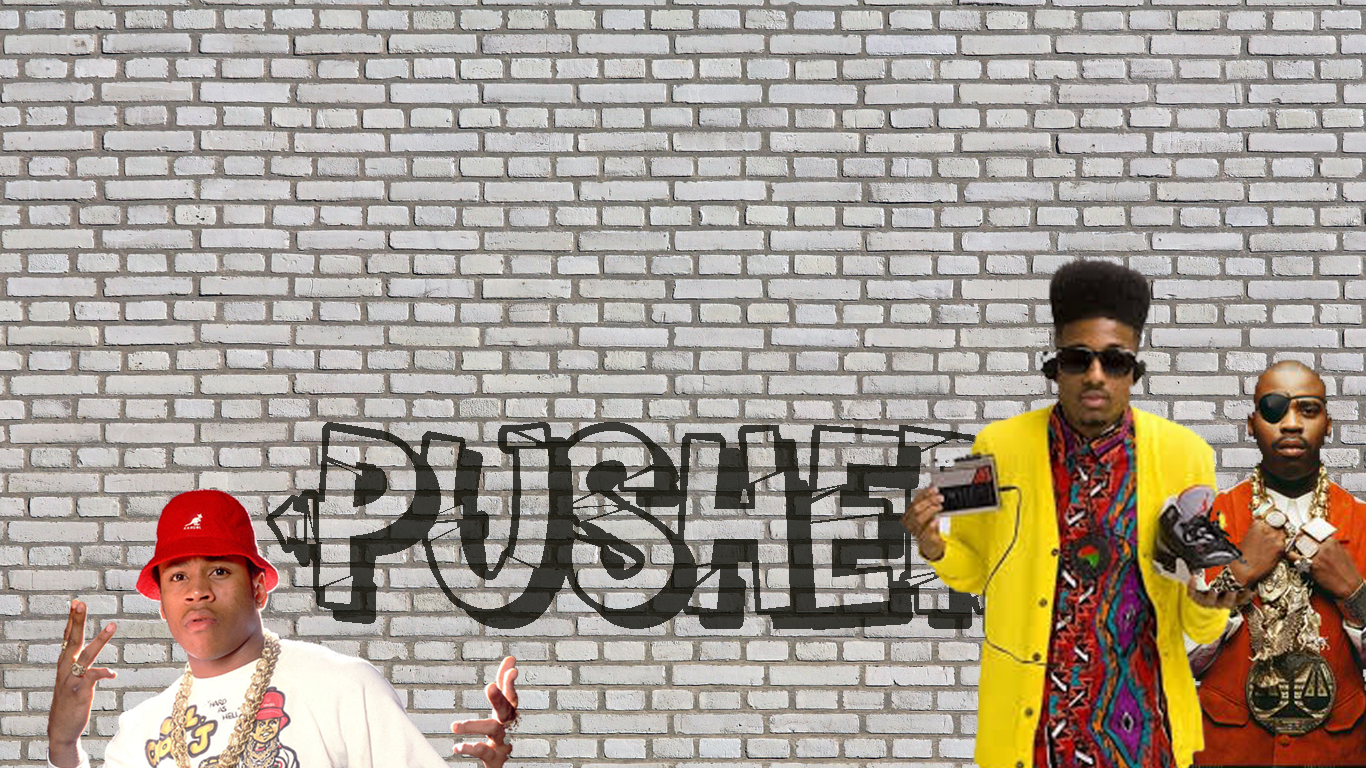
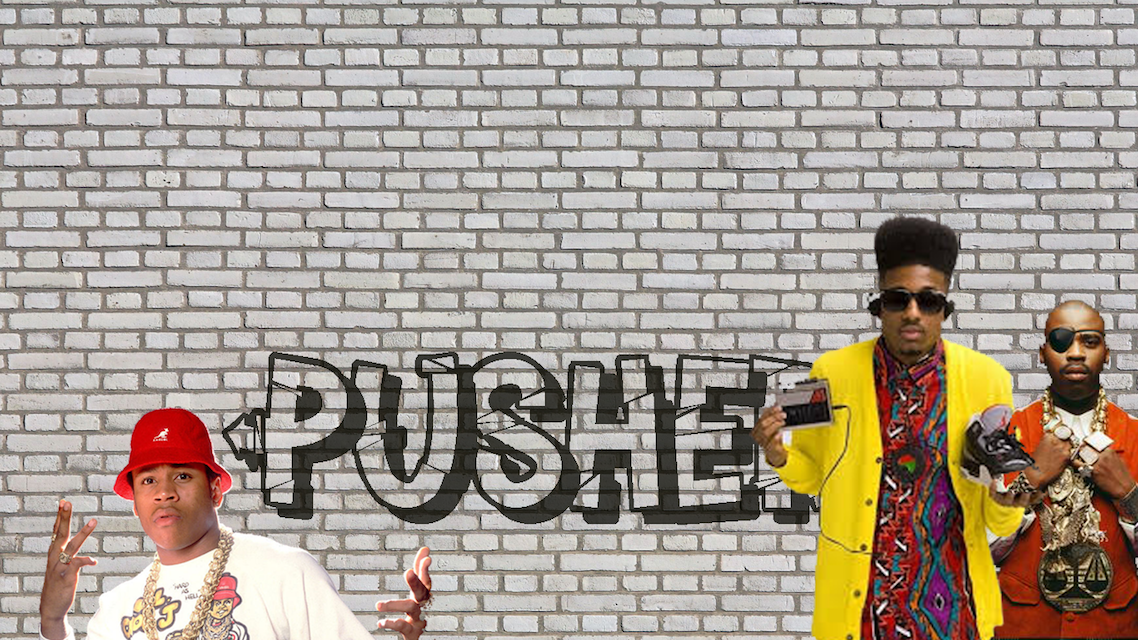
Integrate images

diff --git a/index.html b/index.html
@@ -18,18 +18,36 @@
     }
 
     var instruments = {
-      "chime-musical-synth-stutter": {
-        "audio": new Audio("chime-musical-synth-stutter_zkzHu_E_.mp3"),
-        "img_file": "replay-multiplayer.jpg",
-        "img_left": 100,
+      "cat": {
+        "audio": new Audio("animal_cat_meow.mp3"),
+        "img_file": "cat.png",
+        "img_left": 50,
         "img_top": 10,
       },
-      "horse-whinny": {
-        "audio": new Audio("horse-whinny-3_zyzWTbEu.mp3"),
-        "img_file": "replay-multiplayer.jpg",
-        "img_left": 400,
+      "drums": {
+        "audio": new Audio("drums-burlesque-2_Gk-iyf4d.mp3"),
+        "img_file": "drums.png",
+        "img_left": 250,
         "img_top": 10,
-      }
+      },
+      "sheep": {
+        "audio": new Audio("animal_sheep_baa.mp3"),
+        "img_file": "sheep.png",
+        "img_left": 450,
+        "img_top": 10,
+      },
+      "guitar": {
+        "audio": new Audio("bnm-0715-max-on-stinger.mp3"),
+        "img_file": "guitar.png",
+        "img_left": 650,
+        "img_top": 10,
+      },
+      "guitar2": {
+        "audio": new Audio("bnm-0715-oz-funk-stinger.mp3"),
+        "img_file": "guitar2.png",
+        "img_left": 850,
+        "img_top": 10,
+      },
     }
 
     // Enable pusher logging - don't include this in production
@@ -71,6 +89,7 @@
     $(window).keypress(function (e) {
       if (e.keyCode === 0 || e.keyCode === 32) {
         e.preventDefault()
+        instruments[nameToInstrument[playerName]].audio.play()
         soundChannel.trigger('client-p', nameToInstrument[playerName]);
       }
 
@@ -83,71 +102,78 @@
 </head>
 
 <body bgcolor="#000000">
-  <canvas id="myCanvas" width="1200" height="640"></canvas>
+  <canvas id="myCanvas" width="1138" height="640"></canvas>
 </body>
 
 <script>
   var c = document.getElementById("myCanvas");
-  c.style.backgroundColor = 'rgba(158, 167, 184, 0.2)';
   var canvas = new fabric.Canvas('myCanvas');
+  canvas.setBackgroundImage("background.png", function() {
+    // Name -> text object
+    var instrumentTextObjects = {}
 
-  // Name -> text object
-  var instrumentTextObjects = {}
-
-  // Update the state because someone has changed instrument
-  instrumentChannel.bind('client-p', function(state) {
-    console.log(state)
-    for (var instrument in state) {
-      if (state.hasOwnProperty(instrument)) {
-        console.log(state[instrument])
-        instrumentToName[instrument] = state[instrument]
-        if (instrumentToName[instrument]) {
-          instrumentTextObjects[instrument].setText(instrumentToName[instrument])
-        } else {
-          instrumentTextObjects[instrument].setText("")
+    // Update the state because someone has changed instrument
+    instrumentChannel.bind('client-p', function(state) {
+      console.log(state)
+      for (var instrument in state) {
+        if (state.hasOwnProperty(instrument)) {
+          console.log(state[instrument])
+          instrumentToName[instrument] = state[instrument]
+          if (instrumentToName[instrument]) {
+            instrumentTextObjects[instrument].setText(instrumentToName[instrument])
+          } else {
+            instrumentTextObjects[instrument].setText("")
+          }
         }
       }
+      canvas.renderAll();
+    });
+
+    for (var i in instruments) {
+      if (instruments.hasOwnProperty(i)) {
+        (function(iName, instrument) {
+          fabric.Image.fromURL(instrument.img_file, function(oImg) {
+            var text = new fabric.Text("", {
+              left: instrument.img_left + 60,
+              top: instrument.img_top + 220,
+              fontFamily: 'Impact, Charcoal, sans-serif',
+              stroke: 'red',
+              strokeWidth: 2
+            });
+            text.hasControls = false;
+            text.lockMovementX = true;
+            text.lockMovementY = true;
+            instrumentTextObjects[iName] = text
+            canvas.add(text);
+
+            oImg.left = instrument.img_left;
+            oImg.top = instrument.img_top;
+            oImg.selectable = false;
+            oImg.hasControls = false;
+            oImg.lockMovementX = true;
+            oImg.lockMovementY = true;
+            oImg.on('mousedown', function() {
+              if (instrumentToName[iName] == playerName) { // we are using, remove
+                text.setText("");
+                nameToInstrument[playerName] = null
+                instrumentToName[iName] = null
+                instrumentChannel.trigger('client-p', instrumentToName);
+              } else if (!instrumentToName[iName]) { // no player is using it, switch
+                text.setText(playerName);
+                if (nameToInstrument[playerName]) { // Remove from old instrument
+                  instrumentTextObjects[nameToInstrument[playerName]].setText("")
+                  instrumentToName[nameToInstrument[playerName]] = null
+                }
+                nameToInstrument[playerName] = iName
+                instrumentToName[iName] = playerName
+                instrumentChannel.trigger('client-p', instrumentToName);
+              }
+            });
+            canvas.add(oImg);
+          });
+        })(i, instruments[i]);
+      }
     }
-    canvas.renderAll();
   });
 
-  for (var i in instruments) {
-    if (instruments.hasOwnProperty(i)) {
-      (function(iName, instrument) {
-        fabric.Image.fromURL(instrument.img_file, function(oImg) {
-          var text = new fabric.Text("", { left: instrument.img_left, top: instrument.img_top + 200 });
-          text.hasControls = false;
-          text.lockMovementX = true;
-          text.lockMovementY = true;
-          instrumentTextObjects[iName] = text
-          canvas.add(text);
-
-          oImg.left = instrument.img_left;
-          oImg.top = instrument.img_top;
-          oImg.selectable = false;
-          oImg.hasControls = false;
-          oImg.lockMovementX = true;
-          oImg.lockMovementY = true;
-          oImg.on('mousedown', function() {
-            if (instrumentToName[iName] == playerName) { // we are using, remove
-              text.setText("");
-              nameToInstrument[playerName] = null
-              instrumentToName[iName] = null
-              instrumentChannel.trigger('client-p', instrumentToName);
-            } else if (!instrumentToName[iName]) { // no player is using it, switch
-              text.setText(playerName);
-              if (nameToInstrument[playerName]) { // Remove from old instrument
-                instrumentTextObjects[nameToInstrument[playerName]].setText("")
-                instrumentToName[nameToInstrument[playerName]] = null
-              }
-              nameToInstrument[playerName] = iName
-              instrumentToName[iName] = playerName
-              instrumentChannel.trigger('client-p', instrumentToName);
-            }
-          });
-          canvas.add(oImg);
-        });
-      })(i, instruments[i]);
-    }
-  }
 </script>
